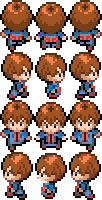
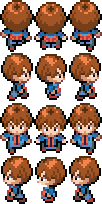
Corrections (Sprite, Speed)
Corrected problem with new level hero movement.
Added Sprite Movement when walking.
Game info draw outside of canvas.

diff --git a/js/main.js b/js/main.js
@@ -1,8 +1,8 @@
 (() => {
     console.log('Loaded');
 
-    const GAME_WIDTH = 768;
-    const GAME_HEIGHT = 512;
+    const gameWidth = 768;
+    const gameHeight = 512;
     var gameLive = true;
     var level = 1;
     var life = 5;
@@ -29,6 +29,8 @@
     var upKey = false;
     var downKey = false;
     var spacePressed = false;
+    var isMoving = false;
+    var spriteWidth = 102;
 
     //Map image
     var tileSheet = new Image();
@@ -41,7 +43,7 @@
             y: 100, //y coordinate
             speedY: 2, //speed in Y
             w: 30, //width
-            h: 40, //heght
+            h: 40, //height
             srcX: 37, //Initial Sprite x Source
             srcY: 0 //Initial Sprite y Source
         },
@@ -75,30 +77,36 @@
     ];
 
     //Bug Image
-    var bugReady = false;
+    // var bugReady = false;
     var bugImage = new Image();
-    bugImage.onload = function () {
-        bugReady = true;
-    };
+    // bugImage.onload = function () {
+    //     bugReady = true;
+    // };
     bugImage.src = "images/bugset.png";
 
     //Hero
     var hero = {
         x: 70,
         y: 250,
-        speed: 2,
-        w: 28,
+        speed: 12,
+        w: 33,
         h: 50,
+        width: 34,
+        height: 50,
         srcX: 34,
-        srcY: 50,
+        srcY: 51,
+        up: 0,
+        right: 51,
+        down: 102,
+        left: 153
     };
 
     //Hero Image
-    var heroReady = false;
+    // var heroReady = false;
     var heroImage = new Image();
-    heroImage.onload = function () {
-        heroReady = true;
-    };
+    // heroImage.onload = function () {
+    //     heroReady = true;
+    // };
     heroImage.src = "images/heroset.png";
 
     //Ship
@@ -110,11 +118,11 @@
     }
 
     //Ship Image
-    var shipReady = false;
+    // var shipReady = false;
     var shipImage = new Image();
-    shipImage.onload = function () {
-        shipReady = true;
-    };
+    // shipImage.onload = function () {
+    //     shipReady = true;
+    // };
     shipImage.src = "images/ship.png";
 
     //Returns the drawing context on the canvas
@@ -125,15 +133,19 @@
     function keyDownHandler(event) {
         if(event.keyCode == 39) {
             rightKey = true;
+            isMoving = true;
         }
         else if(event.keyCode == 37) {
             leftKey = true;
+            isMoving = true;
         }
         if(event.keyCode == 40) {
         	downKey = true;
+            isMoving = true;
         }
         else if(event.keyCode == 38) {
         	upKey = true;
+            isMoving = true;
         }
         if(event.keyCode == 32) {
             spacePressed = true;
@@ -143,15 +155,19 @@
     function keyUpHandler(event) {
         if(event.keyCode == 39) {
             rightKey = false;
+            isMoving = false;
         }
         else if(event.keyCode == 37) {
             leftKey = false;
+            isMoving = false;
         }
         if(event.keyCode == 40) {
         	downKey = false;
+            isMoving = false;
         }
         else if(event.keyCode == 38) {
         	upKey = false;
+            isMoving = false;
         }
         if(event.keyCode == 32) {
             spacePressed = false;
@@ -162,9 +178,9 @@
     var update = function() {
         //Level Won
         if(checkCollision(hero, ship)) {
-            alert('Congratulations! On to the Next Level');
+            alert('Congratulations! Go to Next Level');
             level += 1;
-            hero.speed += 1;
+            hero.speed += 3;
             hero.x = 70;
             hero.y = 250;
             hero.srcX = 34;
@@ -182,28 +198,29 @@
         }
 
         //Keyboard Move Hero and Define Sprite Sheet
-        if(rightKey == true) {
-            hero.x += hero.speed,
-            hero.srcX = 34,
-            hero.srcY = 50
-        }
-        else if(leftKey == true) {
-            hero.x -= hero.speed,
-            hero.srcX = 34,
-            hero.srcY = 150
-        }
-        else if(downKey == true) {
-            hero.y += hero.speed,
-            hero.srcX = 34,
-            hero.srcY = 100
-        }
-        else if(upKey == true) {
-            hero.y -= hero.speed,
-            hero.srcX = 34,
-            hero.srcY = 0
-        }
-        else if(spacePressed) {
-            console.log(hero.x, hero.y, hero.srcX, hero.srcY);
+        if (isMoving) {
+            if(rightKey == true) {
+                hero.x += hero.speed,
+                hero.srcY = hero.right
+            }
+            else if(leftKey == true) {
+                hero.x -= hero.speed,
+                hero.srcY = hero.left
+            }
+            else if(downKey == true) {
+                hero.y += hero.speed,
+                hero.srcY = hero.down
+            }
+            else if(upKey == true) {
+                hero.y -= hero.speed,
+                hero.srcY = hero.up
+            }
+
+            hero.srcX += hero.width;
+
+            if (hero.srcX >= spriteWidth) {
+            hero.srcX = 0;
+            }
         }
 
         // Bugs Var
@@ -211,25 +228,25 @@
         var n = bugs.length;
 
         // Bugs Functions (Move, Collision)
-        bugs.forEach(function(bug, index){
+        bugs.forEach(function(bug, index) {
           //Lose Live at Collision with Bug
             if(checkCollision(hero, bug)) {
                 //Stop the Game and Reduce Life
-                if(life === 0){
+                if(life === 0) {
                     alert('Game Over'); // If lives === 0 then Game Over
                     for(var ab = 0; ab < bugs.length; ab++){
                         if(bugs[ab].speedY > 1){
                             bugs[ab].speedY -= (level - 1) ;
                         }
-                        else{
+                        else {
                             bugs[ab].speedY += (level - 1) ;
                         }
                     }
                     level = 1;
                     life = 6;
-                    hero.speed = 2;
+                    hero.speed = 12;
                 }
-                if(life > 0){
+                if(life > 0) {
                     life -= 1 ;
                 }
                 hero.x = 70;
@@ -248,8 +265,8 @@
                 bug.srcX = 37;
                 bug.srcY = 0;
             }
-            else if(bug.y >= GAME_HEIGHT - 110) {
-                bug.y = GAME_HEIGHT - 110;
+            else if(bug.y >= gameHeight - 110) {
+                bug.y = gameHeight - 110;
                 bug.speedY *= -1;
                 bug.srcX = 0;
                 bug.srcY = 0;
@@ -260,14 +277,14 @@
         if(hero.y <= 60) {
             hero.y = 60;
         }
-        else if(hero.y >= GAME_HEIGHT - 110) {
-            hero.y = GAME_HEIGHT - 110;
+        else if(hero.y >= gameHeight - 110) {
+            hero.y = gameHeight - 110;
         }
         if(hero.x <= 64) {
             hero.x = 64;
         }
-        else if(hero.x >= GAME_WIDTH - 90) {
-            hero.x = GAME_WIDTH - 90;
+        else if(hero.x >= gameWidth - 90) {
+            hero.x = gameWidth - 90;
         }
     };
 
@@ -296,17 +313,15 @@
     //Draw the Game
     var draw = function() {
         //Clear the Canvas
-        // ctx.clearRect(0,0,GAME_WIDTH,GAME_HEIGHT);
+        // ctx.clearRect(0,0,gameWidth,gameHeight);
 
         //Draw Canvas
         drawMap();
-        ctx.font = "15px Verdana";
-        ctx.fillText("Level: " + level, 10, 15);
-        ctx.fillText("Life: " + life, 10, 35);
-        ctx.fillText("Speed: " + hero.speed, 10, 55);
+        document.querySelector('#level').textContent = "Level: " + level, 10, 15;
+        document.querySelector('#lifes').textContent = "Life: " + life, 10, 35;
 
         //Draw Hero
-        ctx.drawImage(heroImage, hero.srcX, hero.srcY, 34, 50, hero.x, hero.y, 34, 50);
+        ctx.drawImage(heroImage, hero.srcX, hero.srcY, hero.width, hero.height, hero.x, hero.y, hero.width, hero.height);
 
         //Draw Bugs
         bugs.forEach(function(bug, index){
@@ -323,6 +338,7 @@
         draw();
         if(gameLive) {
             window.requestAnimationFrame(init);
+        isMoving = false;
         }
     };
 

diff --git a/index.html b/index.html
@@ -11,21 +11,28 @@
 </head>
 <body>
   <main id="mainContainer">
-    <h1 class="hidden">Welcome</h1>
-    <img id="gameLogo" src='#'>
+    <!-- <img id="gameLogo" src='#'> -->
     <section>
-      <h1>Game Stuff</h1>
       <h2>Awesome JS Starship Troopers Game</h2>
+    </section>
+    <section class="infoGame">
+      <div id="level"></div>
+      <div id="lifes"></div>
     </section>
 
     <canvas id="Canvas" width="768" height="512">
       <div class="unsupported">
         Sorry, this example cannot be run because your browser does not support the &lt;canvas&gt; element
       </div>
+      <section class="startScreen">
+      <h1>Starship Troopers Game</h1>
+      <button>Start Game></button>
+      </section>
     </canvas>
 
+
     <footer>
-      <p>footer info</p>
+      <p></p>
     </footer>
   </main>
 

diff --git a/css/main.css b/css/main.css
@@ -7,6 +7,13 @@ body
   line-height: 25px;
 }
 
+h2 {
+  font-size: 1.5rem;
+  font-weight: 700;
+  margin-bottom: 20px;
+  margin-top: 40px;
+}
+
 #mainContainer {
   width: 1080px;
   margin: 0 auto;
@@ -25,4 +32,17 @@ canvas {
   border-color: #2c2c2c;
   border-style: solid;
   border-width: 1px;
+}
+
+.infoGame {
+  font-weight: 700;
+  font-size: 1.3rem;
+  margin-bottom: 40px;
+}
+
+/* Start Screen */
+
+.startScreen {
+  display: none;
+  background:
 }
